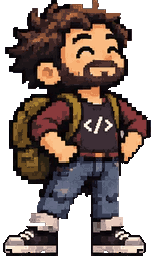
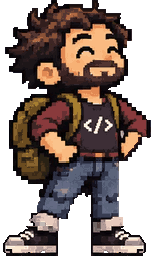
Intro Nacho: outline the hair top, right hand and left cuff like the rest
Missing outlines are now painted inward (shape unchanged) using the colour
gradient and thickness of the nearest outline the art has: 4 px from the
neighbouring hair, 4 px from the sleeve above the hand (replacing the thin
2 px line), 2 px from the other cuff. The notch cut out of the left jeans
cuff is filled so the fold reads as one piece.

Claude-Session: https://claude.ai/code/session_01TrKHjLpm7yGKA7h6gdrdVj

diff --git a/tools/fix_hd_still.py b/tools/fix_hd_still.py
@@ -5,8 +5,11 @@
 - Left shoe: most of its upper was missing. It is rebuilt as a mirror image of the complete right shoe
   (canvas upper, laces, white toe cap, sole, dark underside), aligned to the same ground line, so its
   fill, shading and outline weight match. The left sock cuff above it is kept.
-- Right shoe and right hand: their outer outline was missing; it is redrawn 2 px thick, the weight the
-  art uses elsewhere, in the art's own outline colour. The rebuilt left shoe's toe gets the same.
+- Shoe toes: their outer outline was missing; it is redrawn 2 px thick in the art's outline colour.
+- Hair top, right hand and left jeans cuff: their outline was missing. It is painted inward (the shape
+  does not change) with the colour gradient and thickness of the nearest outline the art does have:
+  4 px from the neighbouring hair, 4 px from the sleeve above the hand, 2 px from the other cuff.
+- Left jeans cuff: a notch was cut out of the rolled hem; it is filled so the fold is solid.
 - Both soles: gaps in the 3-row dark underside are closed.
 - 4 px of room on the left (for the left shoe's toe) and below the feet.
 """
@@ -59,9 +62,44 @@ def outline(ys, xs, width=2):
         box = np.zeros_like(op); box[ys, xs] = True
         a[box & near & ~op] = OUTLINE
 
-outline(slice(118, 176), slice(X(108), a.shape[1]))   # right hand
 outline(slice(226, 253), slice(X(112), a.shape[1]))   # right shoe toe and sole edge
 outline(slice(226, 253), slice(0, X(26)))            # left shoe toe, matching the right one
+
+# Left jeans cuff: the rolled hem had a notch cut out of its lower left (rows 223-225), leaving a loose
+# strip above it. Fill the notch by continuing the hem's bottom row downward, so it is one solid fold.
+for y in range(223, 226):
+    for x in range(X(29), X(45)):
+        if a[y, x, 3] == 0 and a[222, x, 3] > 0:
+            a[y, x] = a[222, x]
+
+from scipy import ndimage as ndi
+
+def depth_map():
+    """Distance (in pixels) of every opaque pixel from transparency or the image edge."""
+    op = np.pad(a[..., 3] > 0, 1, constant_values=False)
+    return ndi.distance_transform_cdt(op, metric='taxicab')[1:-1, 1:-1]
+
+def profile(ys, xs, depth):
+    """The art's own outline in a reference spot: mean colour at each depth 1..depth from the edge."""
+    d = depth_map()
+    box = np.zeros(d.shape, bool); box[ys, xs] = True
+    return [a[box & (d == k)][:, :3].mean(0).round().astype(np.uint8) for k in range(1, depth + 1)]
+
+def graded_outline(ys, xs, prof):
+    """Repaint the edge band of a region inward with a reference outline profile (no change in shape).
+    Pixels that are already outline-dark are kept."""
+    d = depth_map()
+    box = np.zeros(d.shape, bool); box[ys, xs] = True
+    for k, colour in enumerate(prof, start=1):
+        sel = box & (d == k) & (lum(a) >= 45)
+        a[sel, :3] = colour
+
+# Hair top: the bare tufts get the 4 px profile of the outlined hair right next to them.
+graded_outline(slice(0, 30), slice(X(26), X(122)), profile(slice(0, 20), slice(X(44), X(68)), 4))
+# Right hand: the 4 px profile of the sleeve outline just above it.
+graded_outline(slice(138, 165), slice(X(117), a.shape[1]), profile(slice(112, 136), slice(X(128), a.shape[1]), 4))
+# Left cuff's outer edge: the 2 px profile of the right cuff's inner edge.
+graded_outline(slice(213, 226), slice(X(27), X(46)), profile(slice(213, 231), slice(X(84), X(96)), 2))
 
 out = ROOT / 'art' / 'pixellab' / 'hd' / 'south-fixed.png'
 Image.fromarray(a).save(out)
